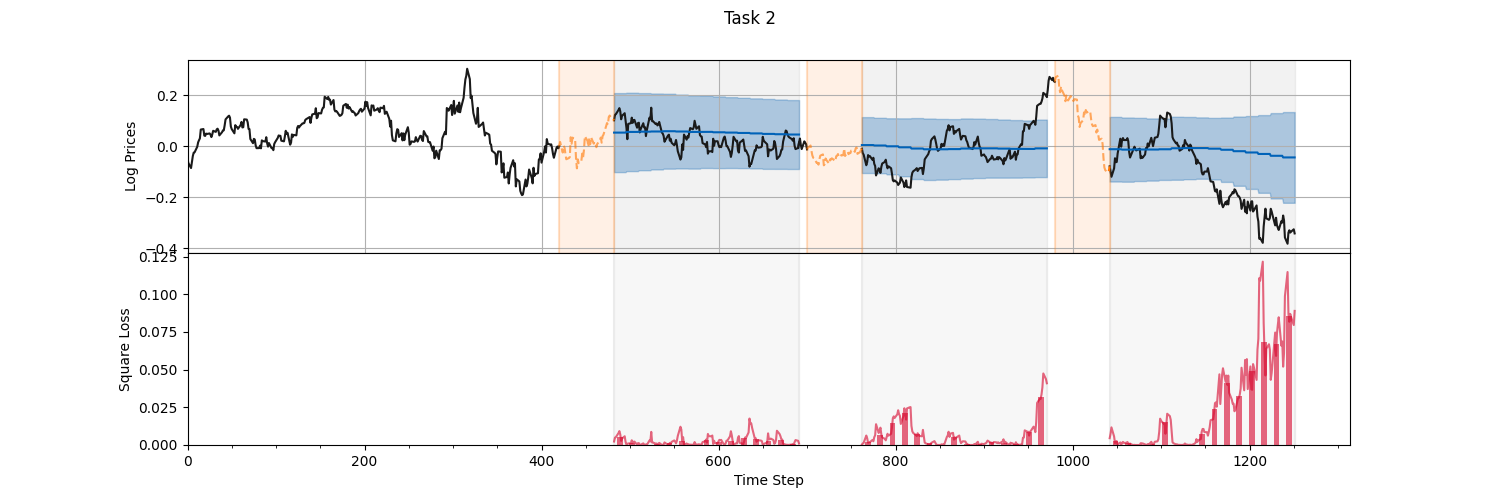
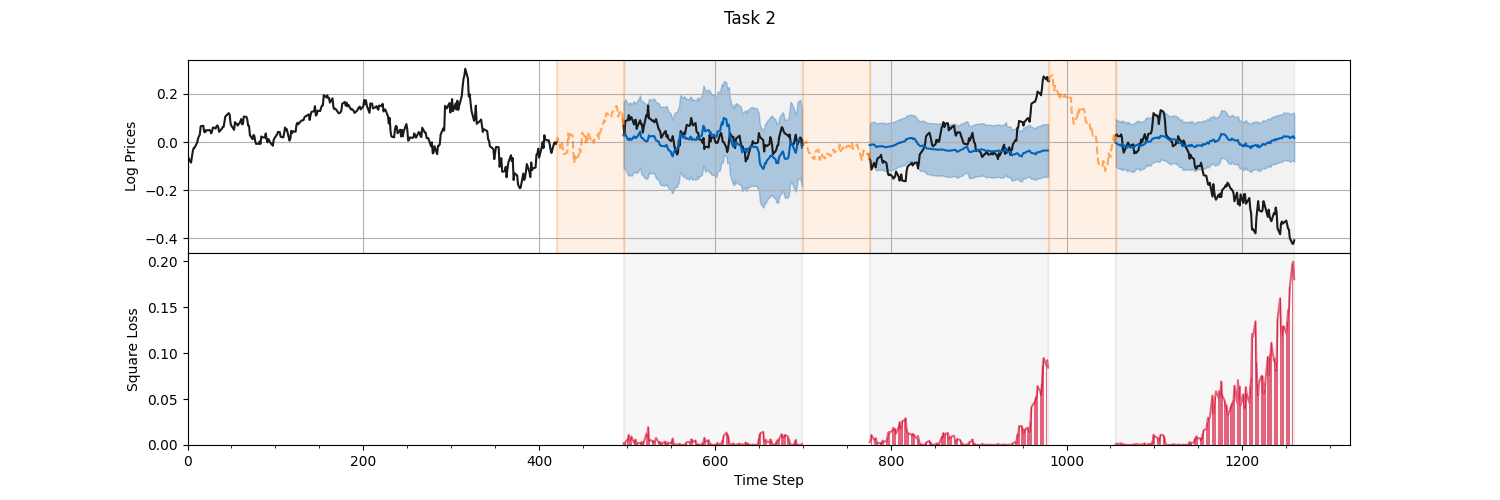
Adding Loading data + Update error plotting

diff --git a/main.py b/main.py
@@ -133,7 +133,7 @@ def main():
 
     if test_type == "f":
         example_plot_all_algo_lag(
-            exp_setting4, is_save=True, is_load=False,
+            exp_setting1, is_save=True, is_load=False,
             load_path="GP-Multi"
             # load_path="07-14-21-19-38-29-GP-Multi"
         )
@@ -141,27 +141,43 @@ def main():
         
         for (_, v) in algo_dict.algorithms_dic.items():
             v[0]["is_verbose"] = False
-        print("Multi-Task Out")
-        example_plot_walk_forward(exp_setting1, "Multi-GP",
-            is_save=True, is_load=False,
-            load_path="Multi-GP"
+        
+        # print("Multi-Task Out")
+        # example_plot_walk_forward(exp_setting1, "Multi-GP-Out",
+        #     is_save=True, is_load=False,
+        #     load_path="Multi-GP"
+        # )
+        # print("Independent GP")
+        # example_plot_walk_forward(exp_setting2, "Ind-GP",
+        #     is_save=True, is_load=False,
+        #     load_path="Multi-GP"
+        # )
+        # print("Multi-Task Index")
+        # example_plot_walk_forward(exp_setting3, "Multi-GP-Index",
+        #     is_save=True, is_load=False,
+        #     load_path="Multi-GP"
+        # )
+        # print("Mean")
+        # example_plot_walk_forward(exp_setting4, "Mean",
+        #     is_save=True, is_load=False,
+        #     load_path="Multi-GP"
+        # )
+        example_plot_walk_forward(
+            exp_setting3, "Multi-GP-Index", is_save=False, is_load=True, is_show=False,
+            # load_path="GP-Ind"
+            load_path="07-16-21-22-46-23-Multi-GP-Index"
         )
-        print("Independent GP")
-        example_plot_walk_forward(exp_setting2, "Multi-GP",
-            is_save=True, is_load=False,
-            load_path="Multi-GP"
+        example_plot_walk_forward(
+            exp_setting2, "Ind-GP", is_save=False, is_load=True, is_show=False,
+            # load_path="GP-Ind"
+            load_path="07-16-21-22-46-04-Ind-GP"
         )
-        print("Multi-Task Index")
-        example_plot_walk_forward(exp_setting3, "Multi-GP",
-            is_save=True, is_load=False,
-            load_path="Multi-GP"
+        example_plot_walk_forward(
+            exp_setting1, "Multi-GP-Out", is_save=False, is_load=True, is_show=False,
+            # load_path="GP-Ind"
+            load_path="07-16-21-22-45-34-Multi-GP-Out"
         )
-        print("Mean")
-        example_plot_walk_forward(exp_setting4, "Multi-GP",
-            is_save=True, is_load=False,
-            load_path="Multi-GP"
-        )
-
+    
 
 if __name__ == '__main__':
     main()

diff --git a/examples/simple_example.py b/examples/simple_example.py
@@ -69,7 +69,6 @@ def create_task(len_inp, len_out, len_pred_show, dataset_desc):
         convert_date=True, offset=-1, is_show_progress=False, num_dataset=-1, is_padding=False
     )     
     features_train, log_prices_train, feature_test, log_prices_test = splitted_data[0]
-    print(feature_test.head(25))
     train_dataset = prepare_dataset(
         features_train, first_day, log_prices_train, 
         len_inp=len_inp, len_out=len_out, return_lag=return_lag, 
@@ -232,7 +231,8 @@ def example_plot_all_algo_lag(exp_setting, plot_gap=True, is_save=True, is_load=
     fig.tight_layout()        
     plt.show()
 
-def example_plot_walk_forward(exp_setting, model_name, load_path, is_save=False, is_load=True):
+def example_plot_walk_forward(exp_setting, model_name, load_path, 
+    size_train=300, size_test=200, is_save=False, is_load=True, is_show=True):
 
     all_data = []
     return_lag_list = []
@@ -258,7 +258,7 @@ def example_plot_walk_forward(exp_setting, model_name, load_path, is_save=False,
         all_data, exp_setting["task"],  
         exp_setting["algo"],
         metric.square_error, 
-        size_train=300, size_test=200, 
+        size_train=size_train, size_test=size_test, 
         train_offset=1, 
         return_lag_list=return_lag_list, 
         convert_date=convert_date,
@@ -281,15 +281,16 @@ def example_plot_walk_forward(exp_setting, model_name, load_path, is_save=False,
     else:
         fold_result = run_fold()
 
-    for task_number in range(len(all_data)):
-        test_features, test_log_prices, test_convert_date, _ = all_data[task_number]
-        fig, ax = visualize_walk_forward(
-            test_features, test_log_prices, fold_result[task_number], test_convert_date,
-            lag_color="o", pred_color="b", below_err="r",
-            title=f"Task {task_number+1}"
-        )
-        fig.savefig(f"img/walk_forward_task_{model_name}_task_{task_number}")
+    if is_show:
+        for task_number in range(len(all_data)):
+            test_features, test_log_prices, test_convert_date, _ = all_data[task_number]
+            fig, ax = visualize_walk_forward(
+                test_features, test_log_prices, fold_result[task_number], test_convert_date,
+                lag_color="o", pred_color="b", below_err="r",
+                title=f"Task {task_number+1}"
+            )
+            fig.savefig(f"img/walk_forward_task_{model_name}_task_{task_number}")
+        plt.show()
     
-    show_result_fold(fold_result, exp_setting)
-    # plt.show()
+    return show_result_fold(fold_result, exp_setting)
 

diff --git a/models/GP_multi_out.py b/models/GP_multi_out.py
@@ -7,6 +7,7 @@ import gpytorch
 from models.train_model import BaseTrainMultiTask
 from models.GP_model import MultioutputGP
 from models.GP import IndependentGP
+from utils.data_structure import Hyperparameters
 
 from experiments import algo_dict
 from utils import others
@@ -157,19 +158,23 @@ class GPMultiTaskMultiOut(BaseTrainMultiTask):
         
         path = base_path + "/multi_GP/"
         path += "model"
-
-        state_dict = torch.load(path + ".pth")
-        self.train_x = torch.load(path + "_x.pt")
-        self.train_y = torch.load(path + "_y.pt")
-        self.mean_x = torch.load(path + "_mean_x.pt")
-        self.std_x = torch.load(path + "_std_x.pt")
+        
+        all_ext = [".pth", "_x.pt", "_y.pt", "_mean_x.pt", "_std_x.pt"]
+        all_data = []
+        if self.hyperparam["is_gpu"]:
+            all_data = [torch.load(path + ext, map_location="cuda:0") for ext in all_ext]
+        else:
+            all_data = [torch.load(path + ext, map_location=torch.device('cpu')) for ext in all_ext]
+        
+        (state_dict, self.train_x, self.train_y, 
+            self.mean_x, self.std_x) = all_data
         
         self.model = MultioutputGP(
             self.train_x, self.train_y, self.likelihood, 
             self.load_kernel(list_config[0][0]["kernel"]), num_task
         )
         
-        if list_config[0][0]["is_gpu"]:
+        if self.hyperparam["is_gpu"]:
             self.model.cuda()
 
         self.model.load_state_dict(state_dict)
@@ -182,8 +187,12 @@ class GPMultiTaskMultiOut(BaseTrainMultiTask):
         using_first = data["using_first"]
         list_config = data["list_config"]
         num_task = len(list_config)
+        
+        all_list_config = []
+        for (dict_config, type_model) in list_config:
+            all_list_config.append([Hyperparameters(**dict_config), type_model])
 
-        model = cls([[]]*num_task, list_config, using_first)
+        model = cls([[]]*num_task, all_list_config, using_first)
         model.load(path)
         return model
     

diff --git a/models/GP_multi_index.py b/models/GP_multi_index.py
@@ -9,6 +9,7 @@ from models.GP_model import MultiTaskGPIndexModel
 
 from experiments import algo_dict
 from utils import others
+from utils.data_structure import Hyperparameters
 
 import copy
 
@@ -152,19 +153,22 @@ class GPMultiTaskIndex(BaseTrainMultiTask):
         path = base_path + "/multi_index_GP/"
         path += "model"
 
-        state_dict = torch.load(path + ".pth")
-        self.train_x = torch.load(path + "_x.pt")
-        self.train_y = torch.load(path + "_y.pt")
-        self.mean_x = torch.load(path + "_mean_x.pt")
-        self.std_x = torch.load(path + "_std_x.pt")
-        self.train_ind = torch.load(path + "_train_ind.pt")
+        all_ext = [".pth", "_x.pt", "_y.pt", "_mean_x.pt", "_std_x.pt", "_train_ind.pt"]
+        all_data = []
+        if self.hyperparam["is_gpu"]:
+            all_data = [torch.load(path + ext, map_location="cuda:0") for ext in all_ext]
+        else:
+            all_data = [torch.load(path + ext, map_location=torch.device("cpu")) for ext in all_ext]
         
+        (state_dict, self.train_x, self.train_y, 
+            self.mean_x, self.std_x, self.train_ind) = all_data
+
         self.model = MultiTaskGPIndexModel(
             (self.train_x, self.train_ind), self.train_y, self.likelihood, 
             self.load_kernel(list_config[0][0]["kernel"]), num_task
         )
         
-        if list_config[0][0]["is_gpu"]:
+        if self.hyperparam["is_gpu"]:
             self.model.cuda()
 
         self.model.load_state_dict(state_dict)
@@ -178,7 +182,11 @@ class GPMultiTaskIndex(BaseTrainMultiTask):
         list_config = data["list_config"]
         num_task = len(list_config)
 
-        model = cls([[]]*num_task, list_config, using_first)
+        all_list_config = []
+        for (dict_config, type_model) in list_config:
+            all_list_config.append([Hyperparameters(**dict_config), type_model])
+
+        model = cls([[]]*num_task, all_list_config, using_first)
         model.load(path)
         return model
     

diff --git a/utils/data_visualization.py b/utils/data_visualization.py
@@ -248,6 +248,9 @@ def show_result_fold(fold_results, exp_setting):
     header = ["", "All Error", "Interval Error"]
     table = []
 
+    all_mean_error = []
+    all_std_error = []
+
     for i, fold_result in enumerate(fold_results):
         all_error_ind, all_error_intv = [], []
         for result in fold_result:
@@ -258,15 +261,22 @@ def show_result_fold(fold_results, exp_setting):
         task_prop = task_setting["dataset"][i]["out_feat_tran_lag"]
         metal = "+".join(task_setting["dataset"][i]["inp_metal_list"])
 
+        mean_error = np.mean(all_error_ind)
+        std_error = np.std(all_error_ind)/np.sqrt(len(all_error_ind))
+
+        all_mean_error.append(mean_error)
+        all_std_error.append(std_error)
+
         table.append([
             f"Task {i+1} (Metal={metal}, Lag={task_prop[0]}, Step ahead={task_prop[1]})", 
-            f"{round(np.median(all_error_ind), 7)}", 
-            f"{round(np.median(all_error_intv), 7)}"
-            # f"{round(np.mean(all_error_ind), 7)} ± {round(np.std(all_error_ind), 7)}", 
-            # f"{round(np.mean(all_error_intv), 7)} ± {round(np.std(all_error_intv), 7)}"
+            # f"{round(np.median(all_error_ind), 7)}", 
+            # f"{round(np.median(all_error_intv), 7)}"
+            f"{round(mean_error, 7)} ± {round(std_error, 7)}", 
+            f"{round(np.mean(all_error_intv), 7)} ± {round(np.std(all_error_intv)/np.sqrt(len(all_error_intv)), 7)}"
         ])
 
     print(tabulate(table, headers=header, tablefmt="grid"))
+    return all_mean_error, all_std_error
 
 def pack_result_data(mean, upper, lower, x):
     """

diff --git a/models/GP.py b/models/GP.py
@@ -106,11 +106,16 @@ class IndependentGP(BaseTrainModel):
         torch.save(self.std_x, path + "_std_x.pt")
     
     def load(self, path):
-        state_dict = torch.load(path + ".pth")
-        self.train_x = torch.load(path + "_x.pt")
-        self.train_y = torch.load(path + "_y.pt")
-        self.mean_x = torch.load(path + "_mean_x.pt")
-        self.std_x = torch.load(path + "_std_x.pt")
+        
+        all_ext = [".pth", "_x.pt", "_y.pt", "_mean_x.pt", "_std_x.pt"]
+        all_data = []
+        if self.hyperparam["is_gpu"]:
+            all_data = [torch.load(path + ext, map_location="cuda:0") for ext in all_ext]
+        else:
+            all_data = [torch.load(path + ext, map_location=torch.device('cpu')) for ext in all_ext]
+        
+        (state_dict, self.train_x, self.train_y, 
+            self.mean_x, self.std_x) = all_data
 
         self.model = OneDimensionGP(
             self.train_x, self.train_y, 

diff --git a/models/ind_multi_model.py b/models/ind_multi_model.py
@@ -7,6 +7,7 @@ from utils import others
 from models.base_model import BaseModel
 from experiments.algo_dict import class_name
 from utils.data_preprocessing import replace_dataset
+from utils.data_structure import Hyperparameters
 
 class IndependentMultiModel(object):
     """
@@ -143,7 +144,7 @@ class IndependentMultiModel(object):
         # Constructing list config
         list_config = []
         for hyper, name in zip(data["hyperparam"], data["model_class"]):
-            list_config.append((hyper, class_name[name]))
+            list_config.append((Hyperparameters(**hyper), class_name[name]))
         
         model = cls(
             [[]] * num_model, 

diff --git a/experiments/algo_dict.py b/experiments/algo_dict.py
@@ -35,7 +35,7 @@ algorithms_dic = {
         len_inp=10, 
         len_out=1, 
         lr=0.1,
-        optim_iter=100,
+        optim_iter=200,
         is_time_only=False,
         is_date=False, 
         is_past_label=True,
@@ -45,7 +45,7 @@ algorithms_dic = {
         len_inp=10, 
         len_out=1, 
         lr=0.1,
-        optim_iter=200,
+        optim_iter=400,
         is_time_only=False,
         is_date=False, 
         is_past_label=True,
